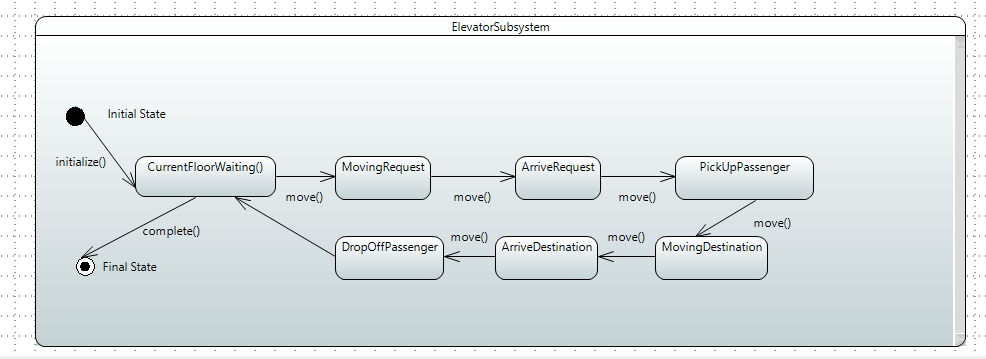
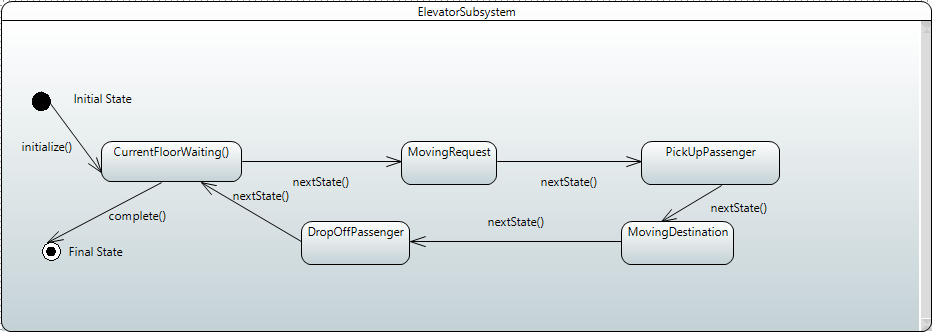
updated files

Changed region(s): [[0.0, 0.0, 1.0, 1.0], [0.0311, 0.2703, 0.1865, 0.3604], [0.0, 0.1502, 0.0311, 0.1802]]

diff --git a/src/ElevatorSubsystemTest.java b/src/ElevatorSubsystemTest.java
@@ -1,0 +1,73 @@
+import java.io.IOException;
+import java.net.*;
+import java.nio.ByteBuffer;
+
+public class ElevatorSubsystemTest {
+    static byte zeroByte = (byte) 0;
+    static InetAddress serverAddress;
+
+    static {
+        try {
+            serverAddress = InetAddress.getLocalHost();
+        } catch (UnknownHostException e) {
+            throw new RuntimeException(e);
+        }
+    }
+
+    public ElevatorSubsystemTest() throws UnknownHostException {
+    }
+
+    public static void main(String[] args) throws IOException {
+
+        // Instantiate ElevatorSubsystem instances
+        ElevatorSubsystem elevatorSubsystem1 = new ElevatorSubsystem();
+        ElevatorSubsystem2 elevatorSubsystem2 = new ElevatorSubsystem2();
+
+        // Simulate elevator system operation
+        checkFloor(elevatorSubsystem1, elevatorSubsystem2, 2, 4);
+        simulateElevatorSystem(elevatorSubsystem1, elevatorSubsystem2);
+        checkFloor(elevatorSubsystem1, elevatorSubsystem2, 2, 4);
+    }
+
+    private static void simulateElevatorSystem(ElevatorSubsystem elevatorSubsystem1, ElevatorSubsystem2 elevatorSubsystem2) throws IOException {
+        DatagramSocket sendSocket = new DatagramSocket();
+        byte[] test1 = createTest(12, 0, 0, 7, 2, 1);
+        byte[] test2 = createTest(12, 1, 0, 1, 4, 0);
+        DatagramPacket elevator1 = new DatagramPacket(test1, test1.length, serverAddress, 69);
+        sendSocket.send(elevator1);
+        DatagramPacket elevator2 = new DatagramPacket(test2, test2.length, serverAddress, 70);
+        sendSocket.send(elevator2);
+    }
+
+    private static byte[] createTest(int hours, int mins, int secs, int from, int to, int direction) {
+        byte[] output = new byte[10];
+        ByteBuffer buffer = ByteBuffer.wrap(output);
+        buffer.put(zeroByte);
+        byte bhours = (byte) hours;
+        byte bmins = (byte) mins;
+        byte bsecs = (byte) secs;
+        byte bfrom = (byte) from;
+        byte bto = (byte) to;
+        byte bdirection = (byte) direction;
+        buffer.put(bhours);
+        buffer.put(bmins);
+        buffer.put(bsecs);
+        buffer.put(zeroByte);
+        buffer.put(bfrom);
+        buffer.put(zeroByte);
+        buffer.put(bto);
+        buffer.put(zeroByte);
+        buffer.put(bdirection);
+        output = buffer.array();
+        return output;
+    }
+
+    private static void checkFloor(ElevatorSubsystem elevatorSubsystem1, ElevatorSubsystem2 elevatorSubsystem2, int floor1, int floor2) {
+        // Check whether each elevator is at the final floor when they finish
+        int finalFloor1 = elevatorSubsystem1.getCurrentFloor();
+        int finalFloor2 = elevatorSubsystem2.getCurrentFloor();
+
+        System.out.println("Elevator 1 is at correct floor: " + (finalFloor1 == floor1));
+        System.out.println("Elevator 2 is at correct floor: " + (finalFloor2 == floor2));
+    }
+}

diff --git a/README.md b/README.md
@@ -10,25 +10,25 @@ Joseph Vretenar - Coded ElevatorSubsystem, Scheduler, Event, Direction, and Floo
 Samuel Mauricla - Coded FloorSubsystemTest, reviewed other code and documentation.<br>
 Bhavaan Balasubramaniam - Wrote README.md, Created the State Machine Diagrams.<br>
 
-## Project Iteration 2: Adding the Scheduler and Elevator Subsystems
-The purpose of Iteration 2 is to implement State Machines for the Scheduler and Elevator Subsystems and assume that only 1 elevator is present. In addition, the Elevator Subsystem will notify the scheduler when an elevator reaches the floor.
+## Project Iteration 3: Multiple cars and System Distribution
+The purpose of Iteration 3 is to implement the UDP(User Datagram Packets) to communicate between 3 seperate programs. In addition, the subsytem has 2 cars.
 
 ## Files:
 ### [FloorSubsystem.java](src/FloorSubsystem.java)
 The Floor class will extract data from an input file and parses each line to create an 'Event' object.
-In addition, it will incorporate timestamps, the current floor, movement direction, and the destination floor. 
+In addition, it will incorporate timestamps, the current floor, movement direction, and the destination floor.
 
 ### [Scheduler.java](src/Scheduler.java)
-The Scheduler class is reponsible for managing elevator requests. 
-The requests are pending and completed requests. 
+The Scheduler class is reponsible for managing elevator requests.
+The requests are pending and completed requests.
 It consists of methods such as adding, processing, and completing events, ensuring there's thread-safe interactions.
 
 ### [Event.java](src/Event.java)
 The Event class is responsible for maintaing elevator-related events which consists of timestamp (time), current floor (currentFloor), movement direction (move), and requested destination floor (destinationFloor).
 
 ### [ElevatorSubsystem.java](src/ElevatorSubsystem.java)
-The Elevator Subsystem class is repsonsible for the elevator's movement and responses to scheduler events. 
-Some methods that are there include 'Runnable' which handles the Elevator's movements and tracks down the amount of passenger to drop and pick up. The 'move' method checks the floor movement and updates the current floor and progress regarding that. 
+The Elevator Subsystem class is repsonsible for the elevator's movement and responses to scheduler events.
+Some methods that are there include 'Runnable' which handles the Elevator's movements and tracks down the amount of passenger to drop and pick up. The 'move' method checks the floor movement and updates the current floor and progress regarding that.
 The 'run' method checks for accurate simulation of elevator movements and waiting periods.
 
 ### [Direction.java](src/Direction.java)
@@ -41,9 +41,9 @@ The constants represent the different possible number of states the Elevator is 
 2. Compile the Java files either using an IDE or through command lines
 3. Ensure that the input file is in the same Project folder
 4. To run the simulation, the files must be run in the following order:<br>
-    a. ElevatorSubsystem.java and ElevatorSubsystem2.java<br>
-    b. Scheduler.java<br>
-    c. FloorSubsystem.java<br>
+   a. ElevatorSubsystem.java and ElevatorSubsystem2.java<br>
+   b. Scheduler.java<br>
+   c. FloorSubsystem.java<br>
 
 To edit the floors and requests, edit the inputFile.txt file
 
@@ -51,7 +51,7 @@ To edit the floors and requests, edit the inputFile.txt file
 1. Open the project in your preferred IDE.
 2. Make sure JUnit is installed on your system. If not, download and install it.
 3. Make sure Jupiter is installed on your system. If not, download and install it.
-4. Run the 
+4. Run the ElevatorSubsystemTest.java file to test the ElevatorSubsystem class.
 
 ## Expected Output
 ### Simulation
@@ -157,7 +157,7 @@ This shows the requests that were made, when they were completed based on the cu
 
 ## Diagrams:
 
-The UML diagram can be found for this project can be found using this [link](Interation1ClassDiagram.png): 
+The UML diagram can be found for this project can be found using this [link](Interation1ClassDiagram.png):
 
 The Sequence diagram for all the classes and functions can be found using this [link](SequenceDiagrams):
 
